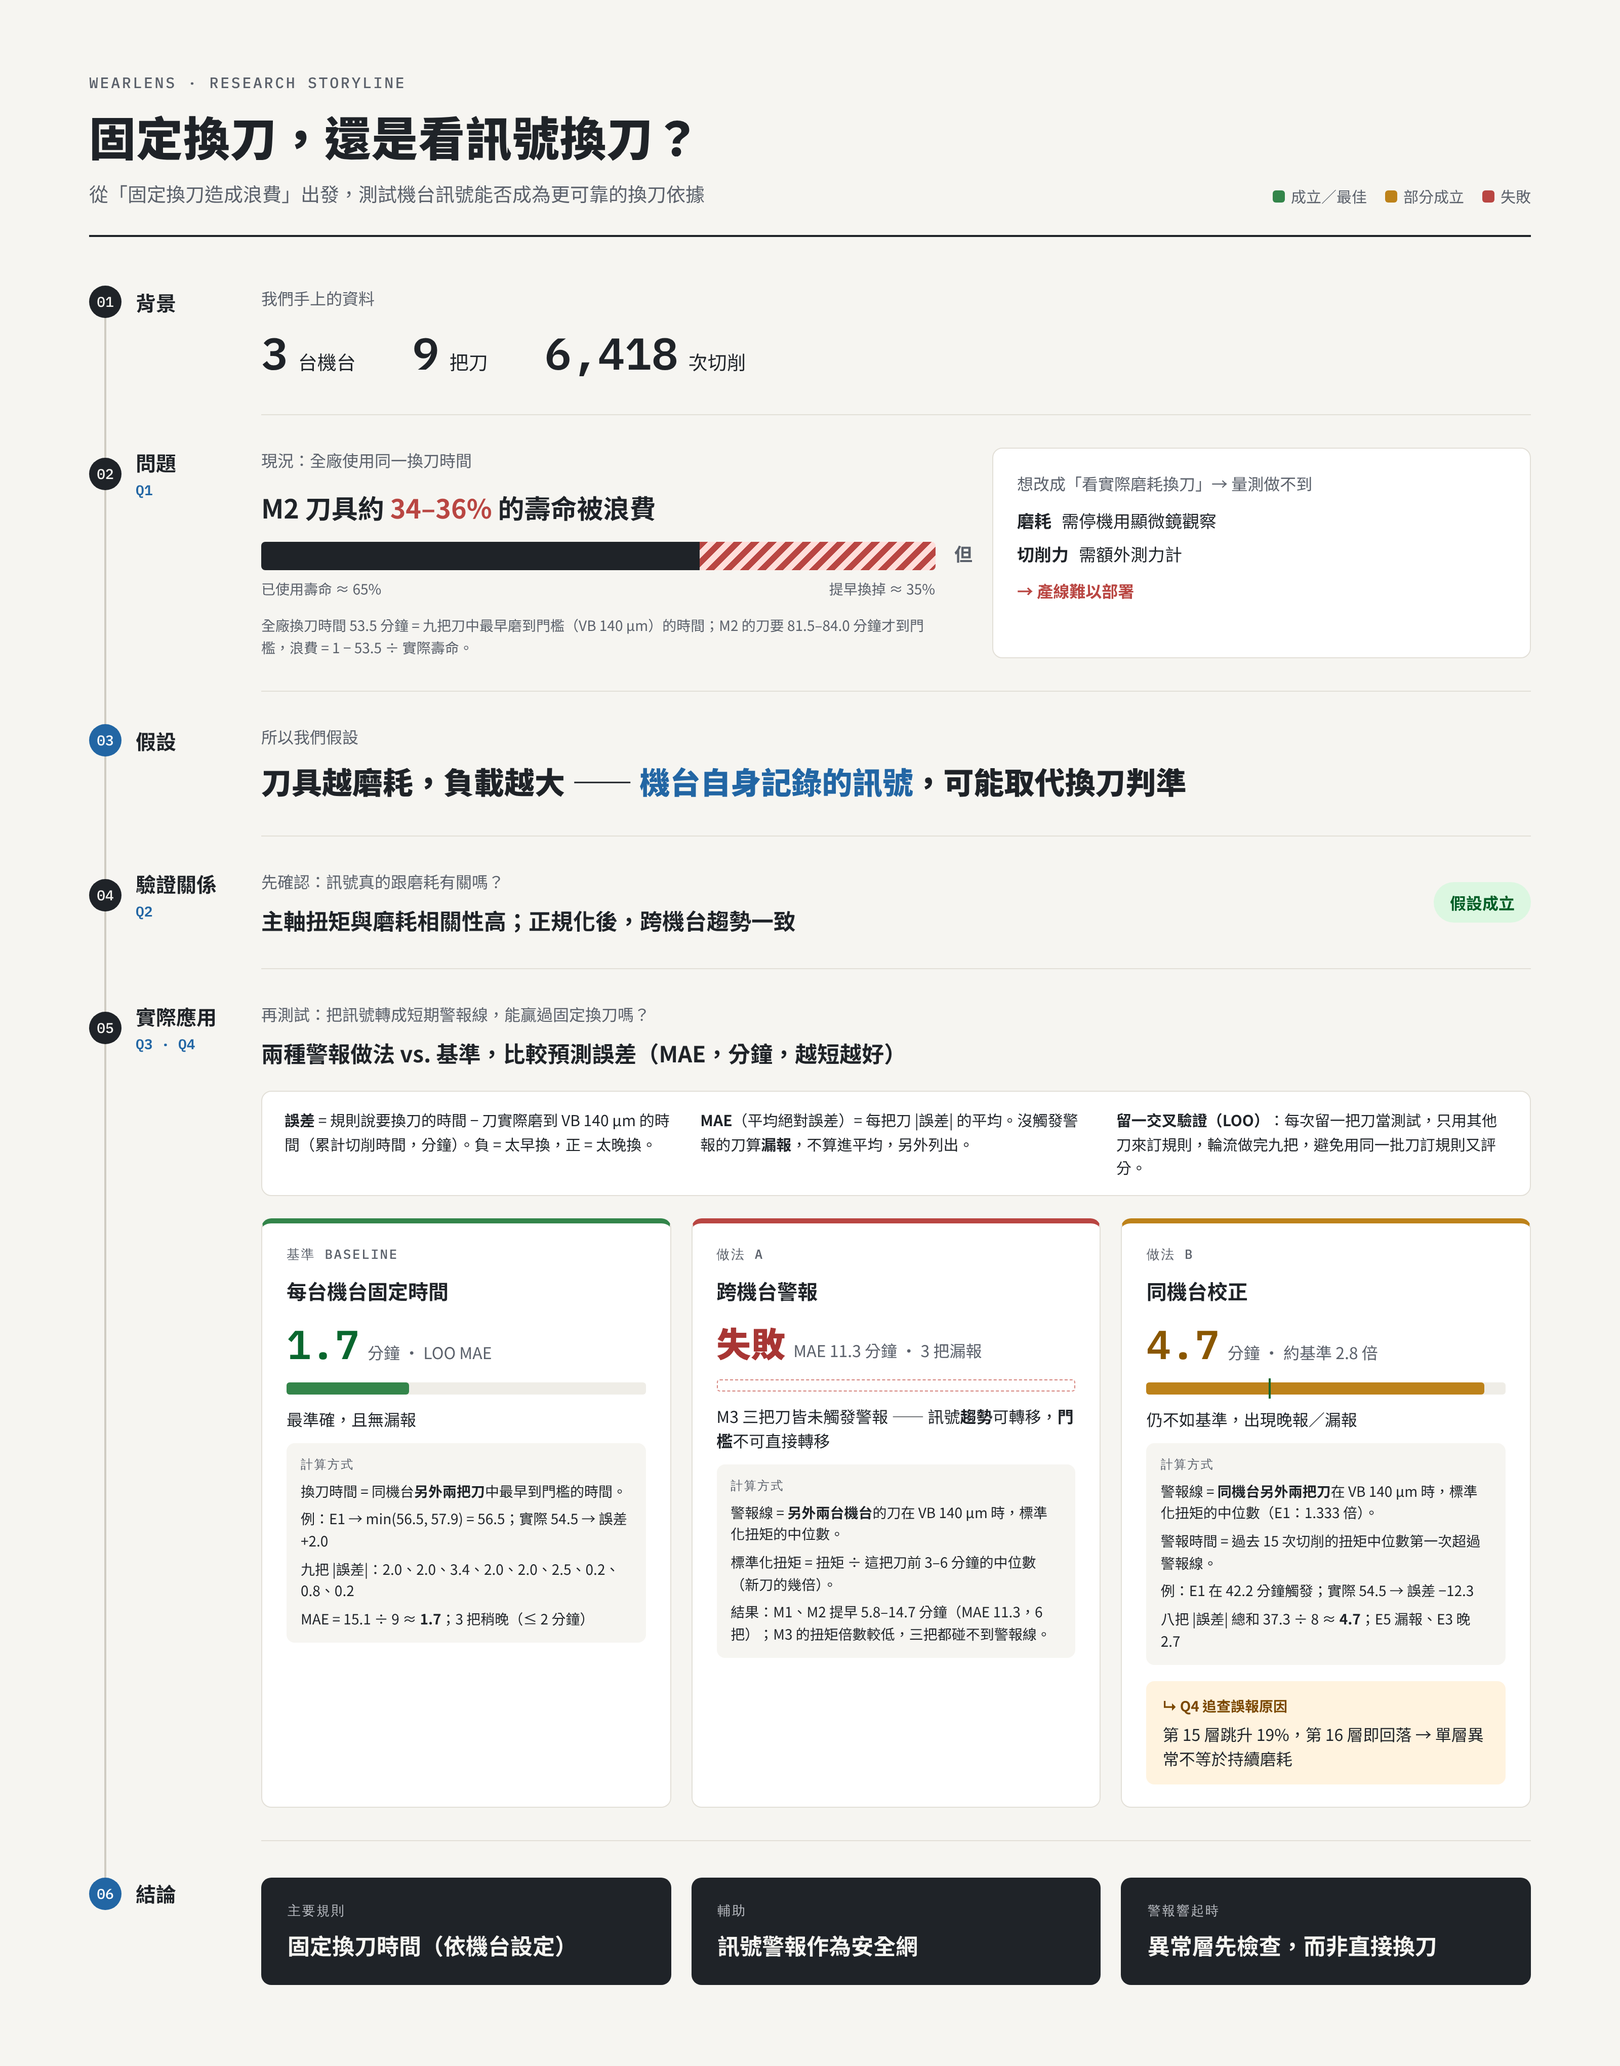
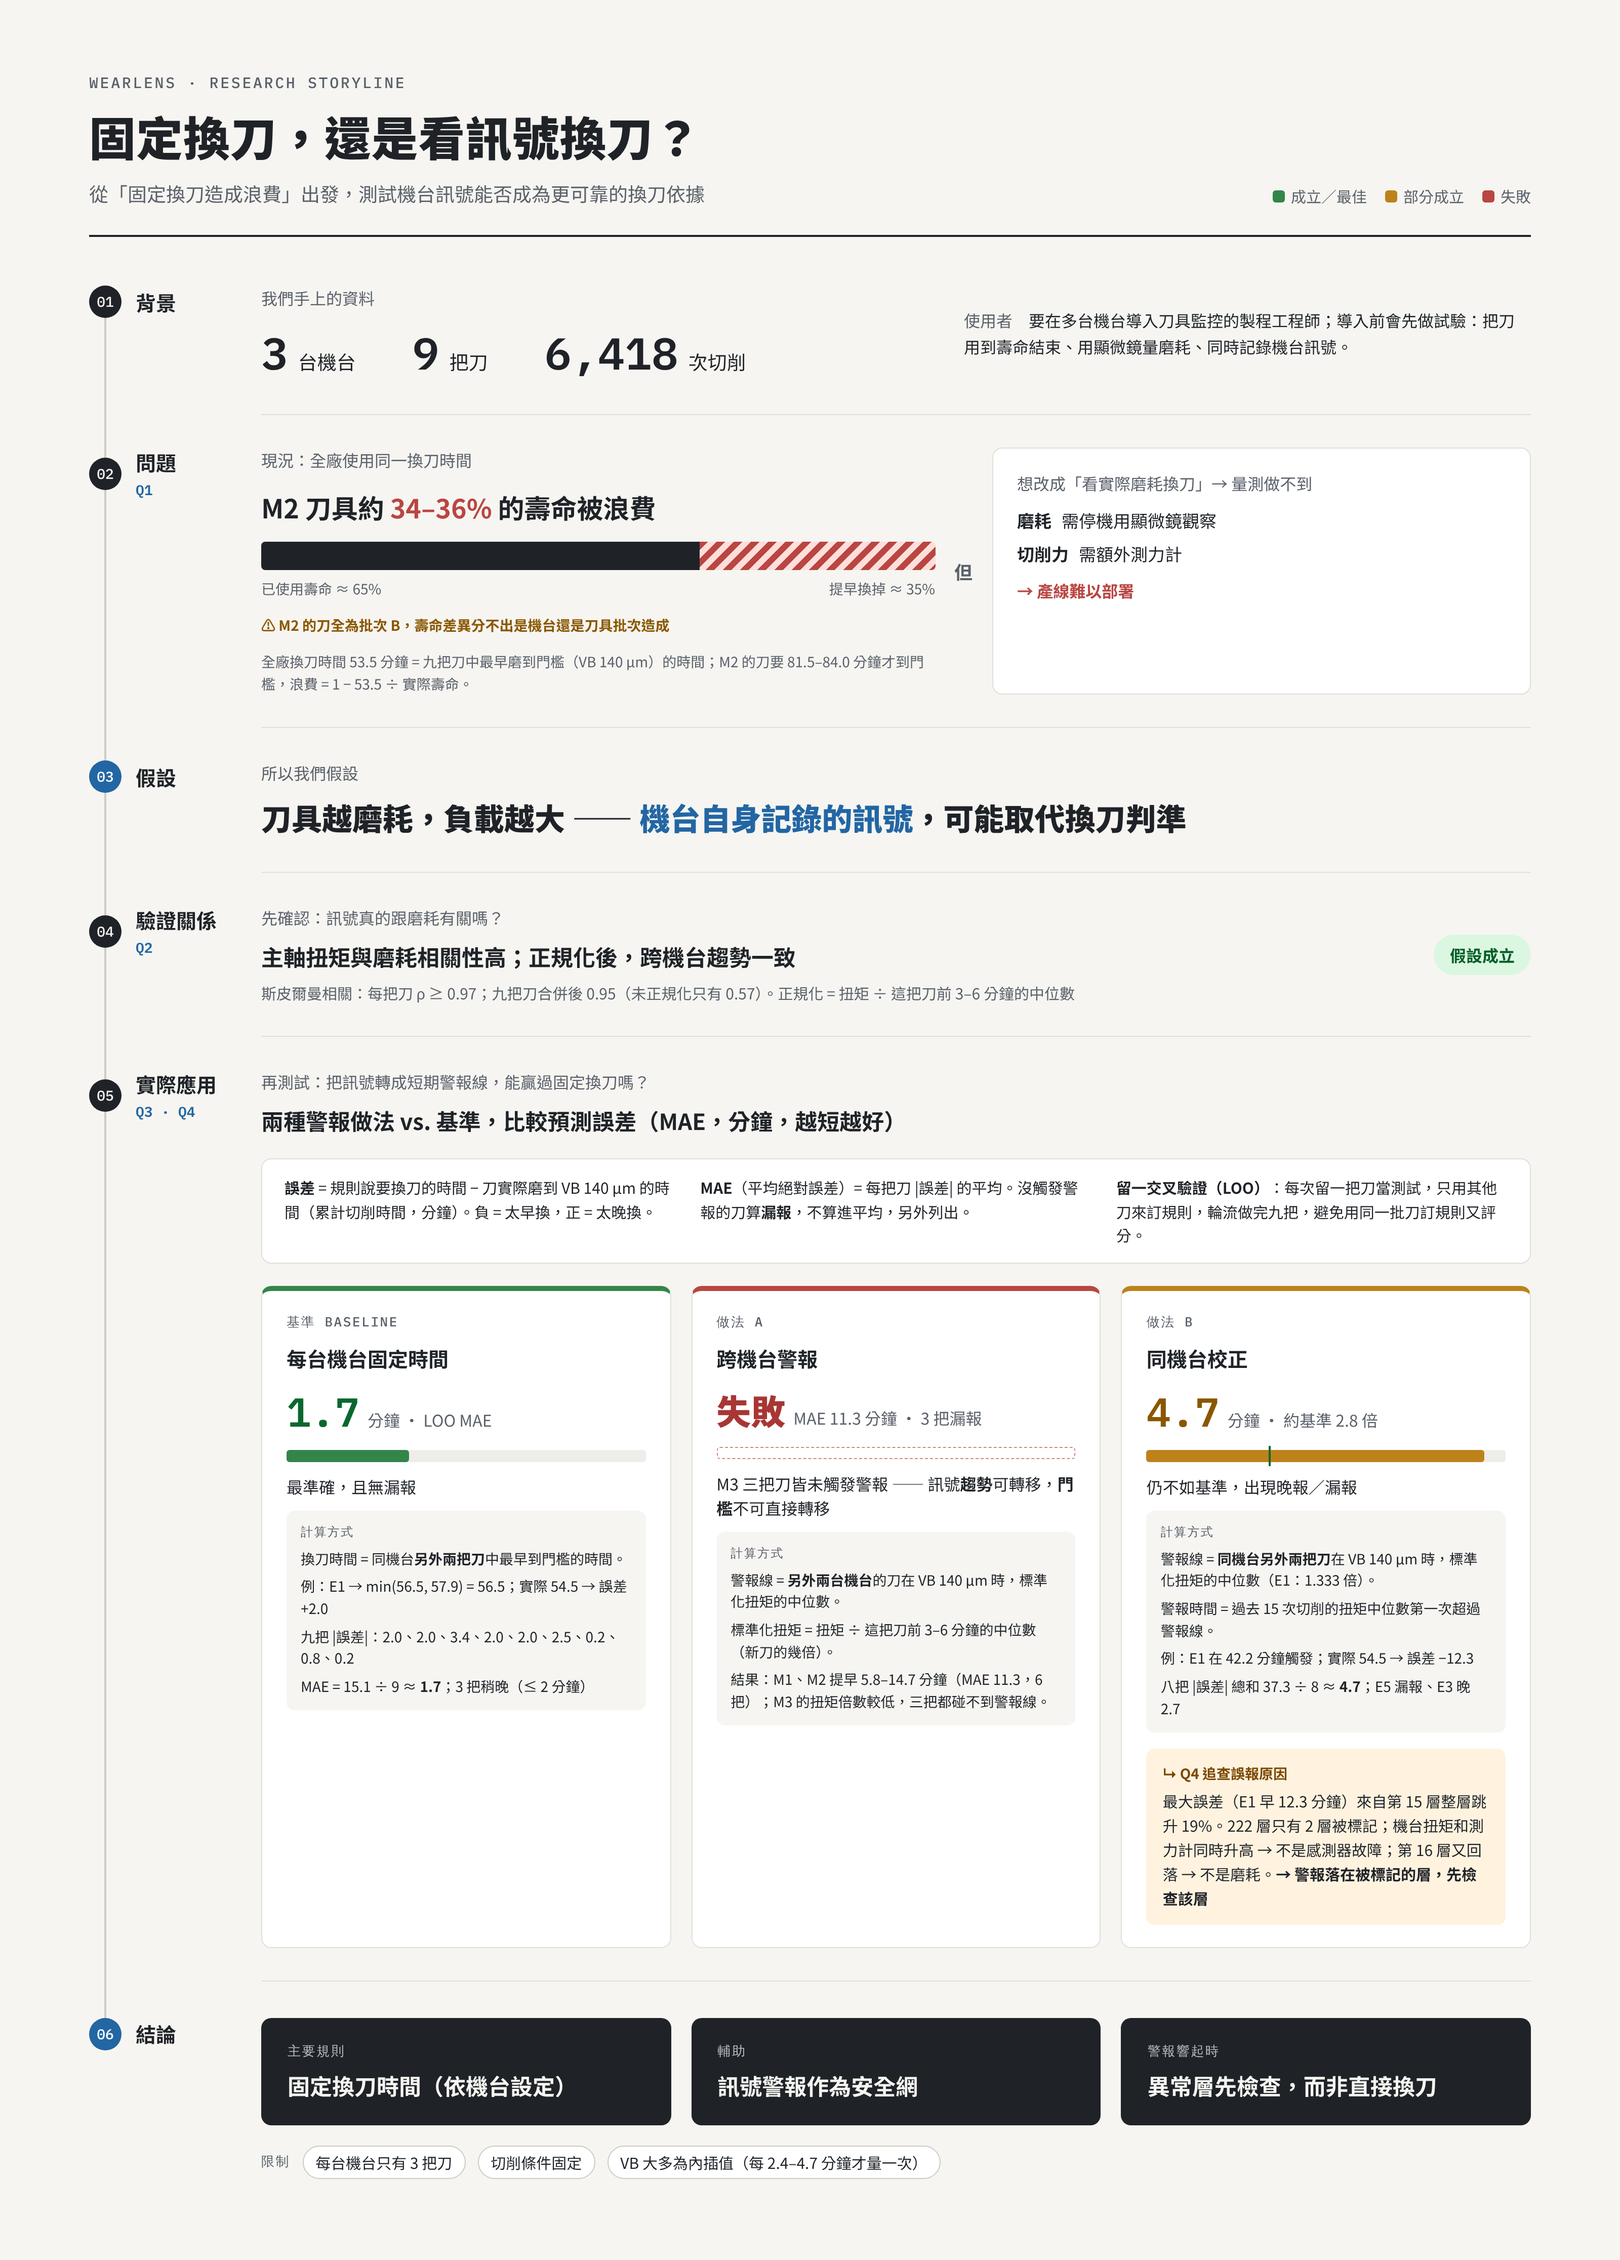
Storyline: add limitations, M2 batch caveat, Q2 correlation numbers, Q4 reasoning and target users
Claude-Session: https://claude.ai/code/session_01RSUiiaGPi9MA599zgasVHv

diff --git a/docs/figs/storyline.html b/docs/figs/storyline.html
@@ -34,13 +34,16 @@
         <div style="font-size:20px;font-weight:700;">背景</div>
       </div>
     </div>
-    <div style="padding:32px 0;border-bottom:1px solid #e2dfd7;display:flex;flex-direction:column;gap:14px;">
+    <div style="padding:32px 0;border-bottom:1px solid #e2dfd7;display:flex;justify-content:space-between;align-items:center;gap:40px;">
+      <div style="display:flex;flex-direction:column;gap:14px;">
       <div style="font-size:16px;color:#5b616b;">我們手上的資料</div>
       <div style="display:flex;gap:56px;align-items:baseline;">
         <div style="display:flex;align-items:baseline;gap:10px;"><span style="font-family:'IBM Plex Mono',monospace;font-size:44px;font-weight:600;">3</span><span style="font-size:19px;">台機台</span></div>
         <div style="display:flex;align-items:baseline;gap:10px;"><span style="font-family:'IBM Plex Mono',monospace;font-size:44px;font-weight:600;">9</span><span style="font-size:19px;">把刀</span></div>
         <div style="display:flex;align-items:baseline;gap:10px;"><span style="font-family:'IBM Plex Mono',monospace;font-size:44px;font-weight:600;">6,418</span><span style="font-size:19px;">次切削</span></div>
       </div>
+      </div>
+      <div style="max-width:560px;font-size:16px;line-height:1.6;color:#1f2328;"><span style="color:#5b616b;">使用者</span>　要在多台機台導入刀具監控的製程工程師；導入前會先做試驗：把刀用到壽命結束、用顯微鏡量磨耗、同時記錄機台訊號。</div>
     </div>
 
     <!-- 02 問題 -->
@@ -62,6 +65,7 @@
           </div>
           <div style="display:flex;justify-content:space-between;font-size:14px;color:#5b616b;"><span>已使用壽命 ≈ 65%</span><span>提早換掉 ≈ 35%</span></div>
         </div>
+        <div style="font-size:14px;font-weight:700;color:oklch(0.5 0.12 75);">⚠ M2 的刀全為批次 B，壽命差異分不出是機台還是刀具批次造成</div>
         <div style="font-size:14px;color:#5b616b;line-height:1.55;">全廠換刀時間 53.5 分鐘 = 九把刀中最早磨到門檻（VB 140 µm）的時間；M2 的刀要 81.5–84.0 分鐘才到門檻，浪費 = 1 − 53.5 ÷ 實際壽命。</div>
       </div>
       <div style="display:flex;align-items:center;justify-content:center;font-size:18px;font-weight:700;color:#5b616b;">但</div>
@@ -100,6 +104,7 @@
       <div style="display:flex;flex-direction:column;gap:10px;">
         <div style="font-size:16px;color:#5b616b;">先確認：訊號真的跟磨耗有關嗎？</div>
         <div style="font-size:22px;font-weight:700;">主軸扭矩與磨耗相關性高；正規化後，跨機台趨勢一致</div>
+        <div style="font-size:15px;color:#5b616b;">斯皮爾曼相關：每把刀 ρ ≥ 0.97；九把刀合併後 0.95（未正規化只有 0.57）。正規化 = 扭矩 ÷ 這把刀前 3–6 分鐘的中位數</div>
       </div>
       <div style="flex-shrink:0;padding:8px 16px;border-radius:999px;background:oklch(0.95 0.04 150);color:oklch(0.42 0.12 150);font-size:16px;font-weight:700;">假設成立</div>
     </div>
@@ -145,7 +150,7 @@
           <div style="padding:12px 14px;background:#f6f5f1;border-radius:8px;display:flex;flex-direction:column;gap:6px;font-size:14px;line-height:1.55;color:#1f2328;"><div style="font-family:'IBM Plex Mono',monospace;font-size:12px;letter-spacing:0.1em;color:#5b616b;">計算方式</div><div>警報線 = <b>同機台另外兩把刀</b>在 VB 140 µm 時，標準化扭矩的中位數（E1：1.333 倍）。</div><div>警報時間 = 過去 15 次切削的扭矩中位數第一次超過警報線。</div><div>例：E1 在 42.2 分鐘觸發；實際 54.5 → 誤差 −12.3</div><div>八把 |誤差| 總和 37.3 ÷ 8 ≈ <b>4.7</b>；E5 漏報、E3 晚 2.7</div></div>
           <div style="margin-top:4px;padding:14px 16px;background:oklch(0.97 0.03 75);border-radius:8px;display:flex;flex-direction:column;gap:6px;">
             <div style="font-size:14px;font-weight:700;color:oklch(0.45 0.12 75);">↳ Q4 追查誤報原因</div>
-            <div style="font-size:16px;">第 15 層跳升 19%，第 16 層即回落 → 單層異常不等於持續磨耗</div>
+            <div style="font-size:15px;line-height:1.6;">最大誤差（E1 早 12.3 分鐘）來自第 15 層整層跳升 19%。222 層只有 2 層被標記；機台扭矩和測力計同時升高 → 不是感測器故障；第 16 層又回落 → 不是磨耗。<b>→ 警報落在被標記的層，先檢查該層</b></div>
           </div>
         </div>
       </div>
@@ -172,6 +177,8 @@
         <div style="font-size:22px;font-weight:700;">異常層先檢查，而非直接換刀</div>
       </div>
     </div>
+    <div></div>
+    <div style="padding:20px 0 0;display:flex;align-items:center;gap:12px;flex-wrap:wrap;font-size:15px;color:#1f2328;"><span style="font-family:'IBM Plex Mono',monospace;font-size:13px;letter-spacing:0.1em;color:#5b616b;">限制</span><span style="padding:5px 12px;border:1px solid #cfcbc2;border-radius:999px;background:#ffffff;">每台機台只有 3 把刀</span><span style="padding:5px 12px;border:1px solid #cfcbc2;border-radius:999px;background:#ffffff;">切削條件固定</span><span style="padding:5px 12px;border:1px solid #cfcbc2;border-radius:999px;background:#ffffff;">VB 大多為內插值（每 2.4–4.7 分鐘才量一次）</span></div>
 
   </div>
 </div>
